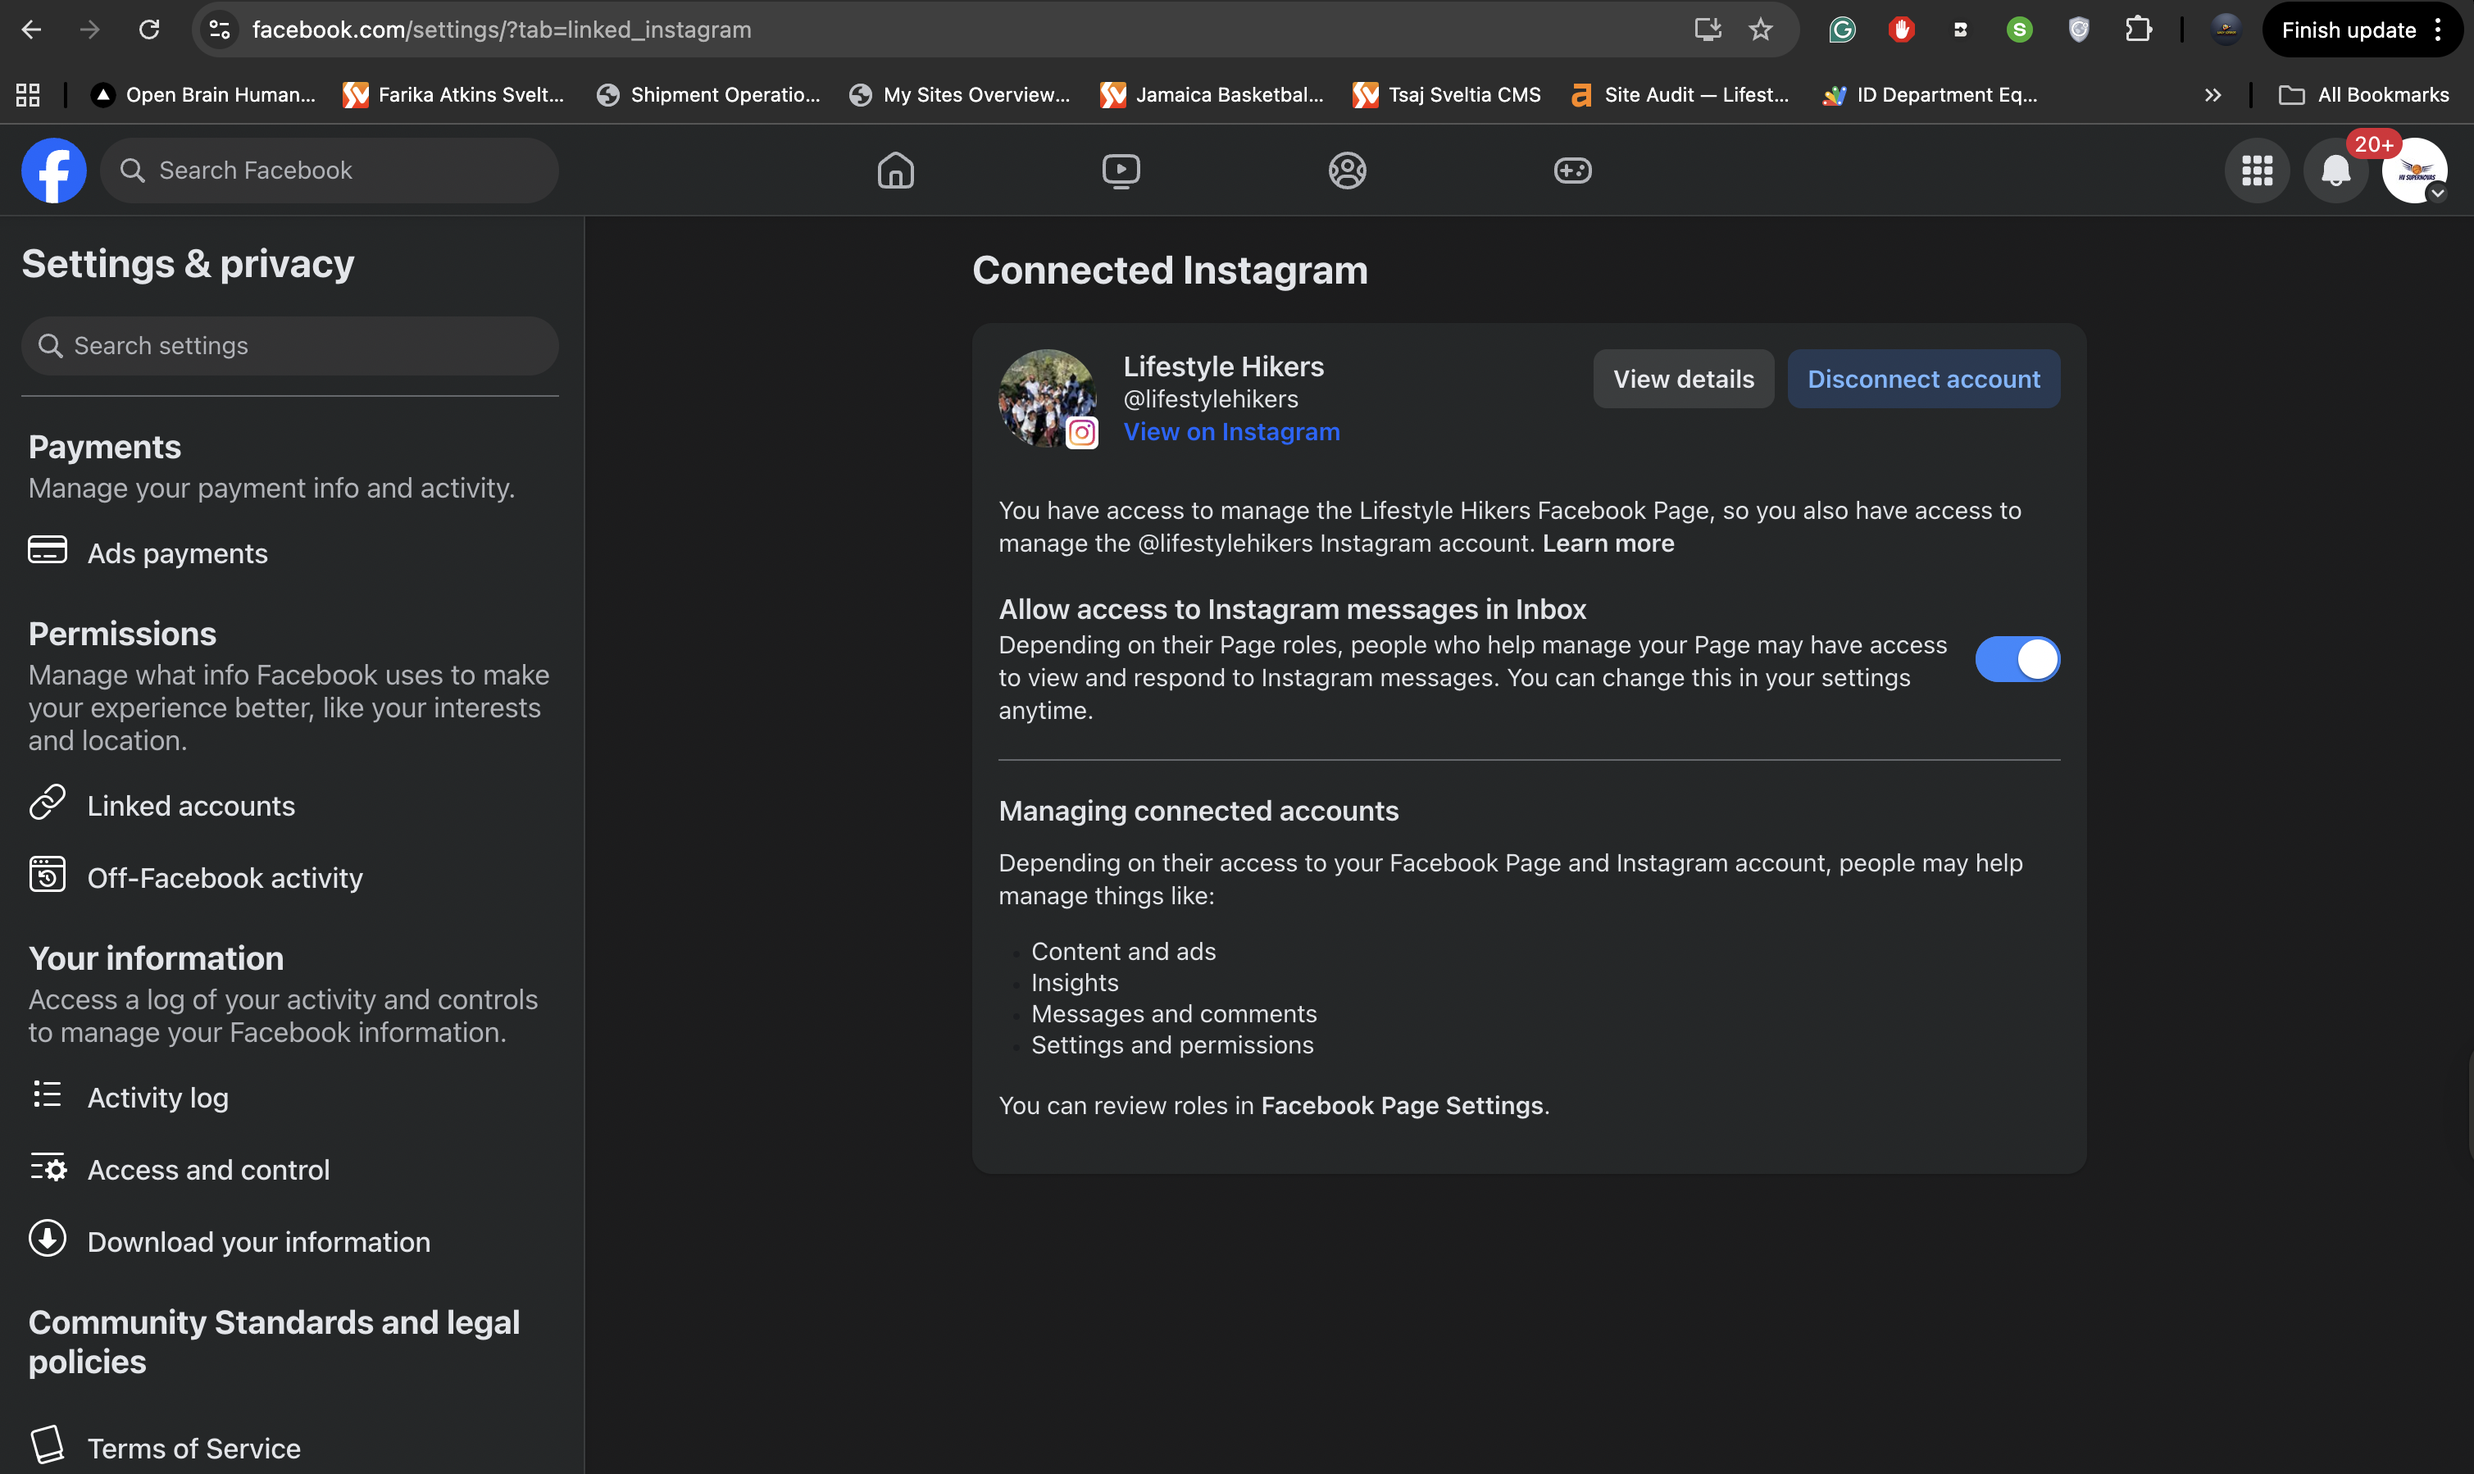
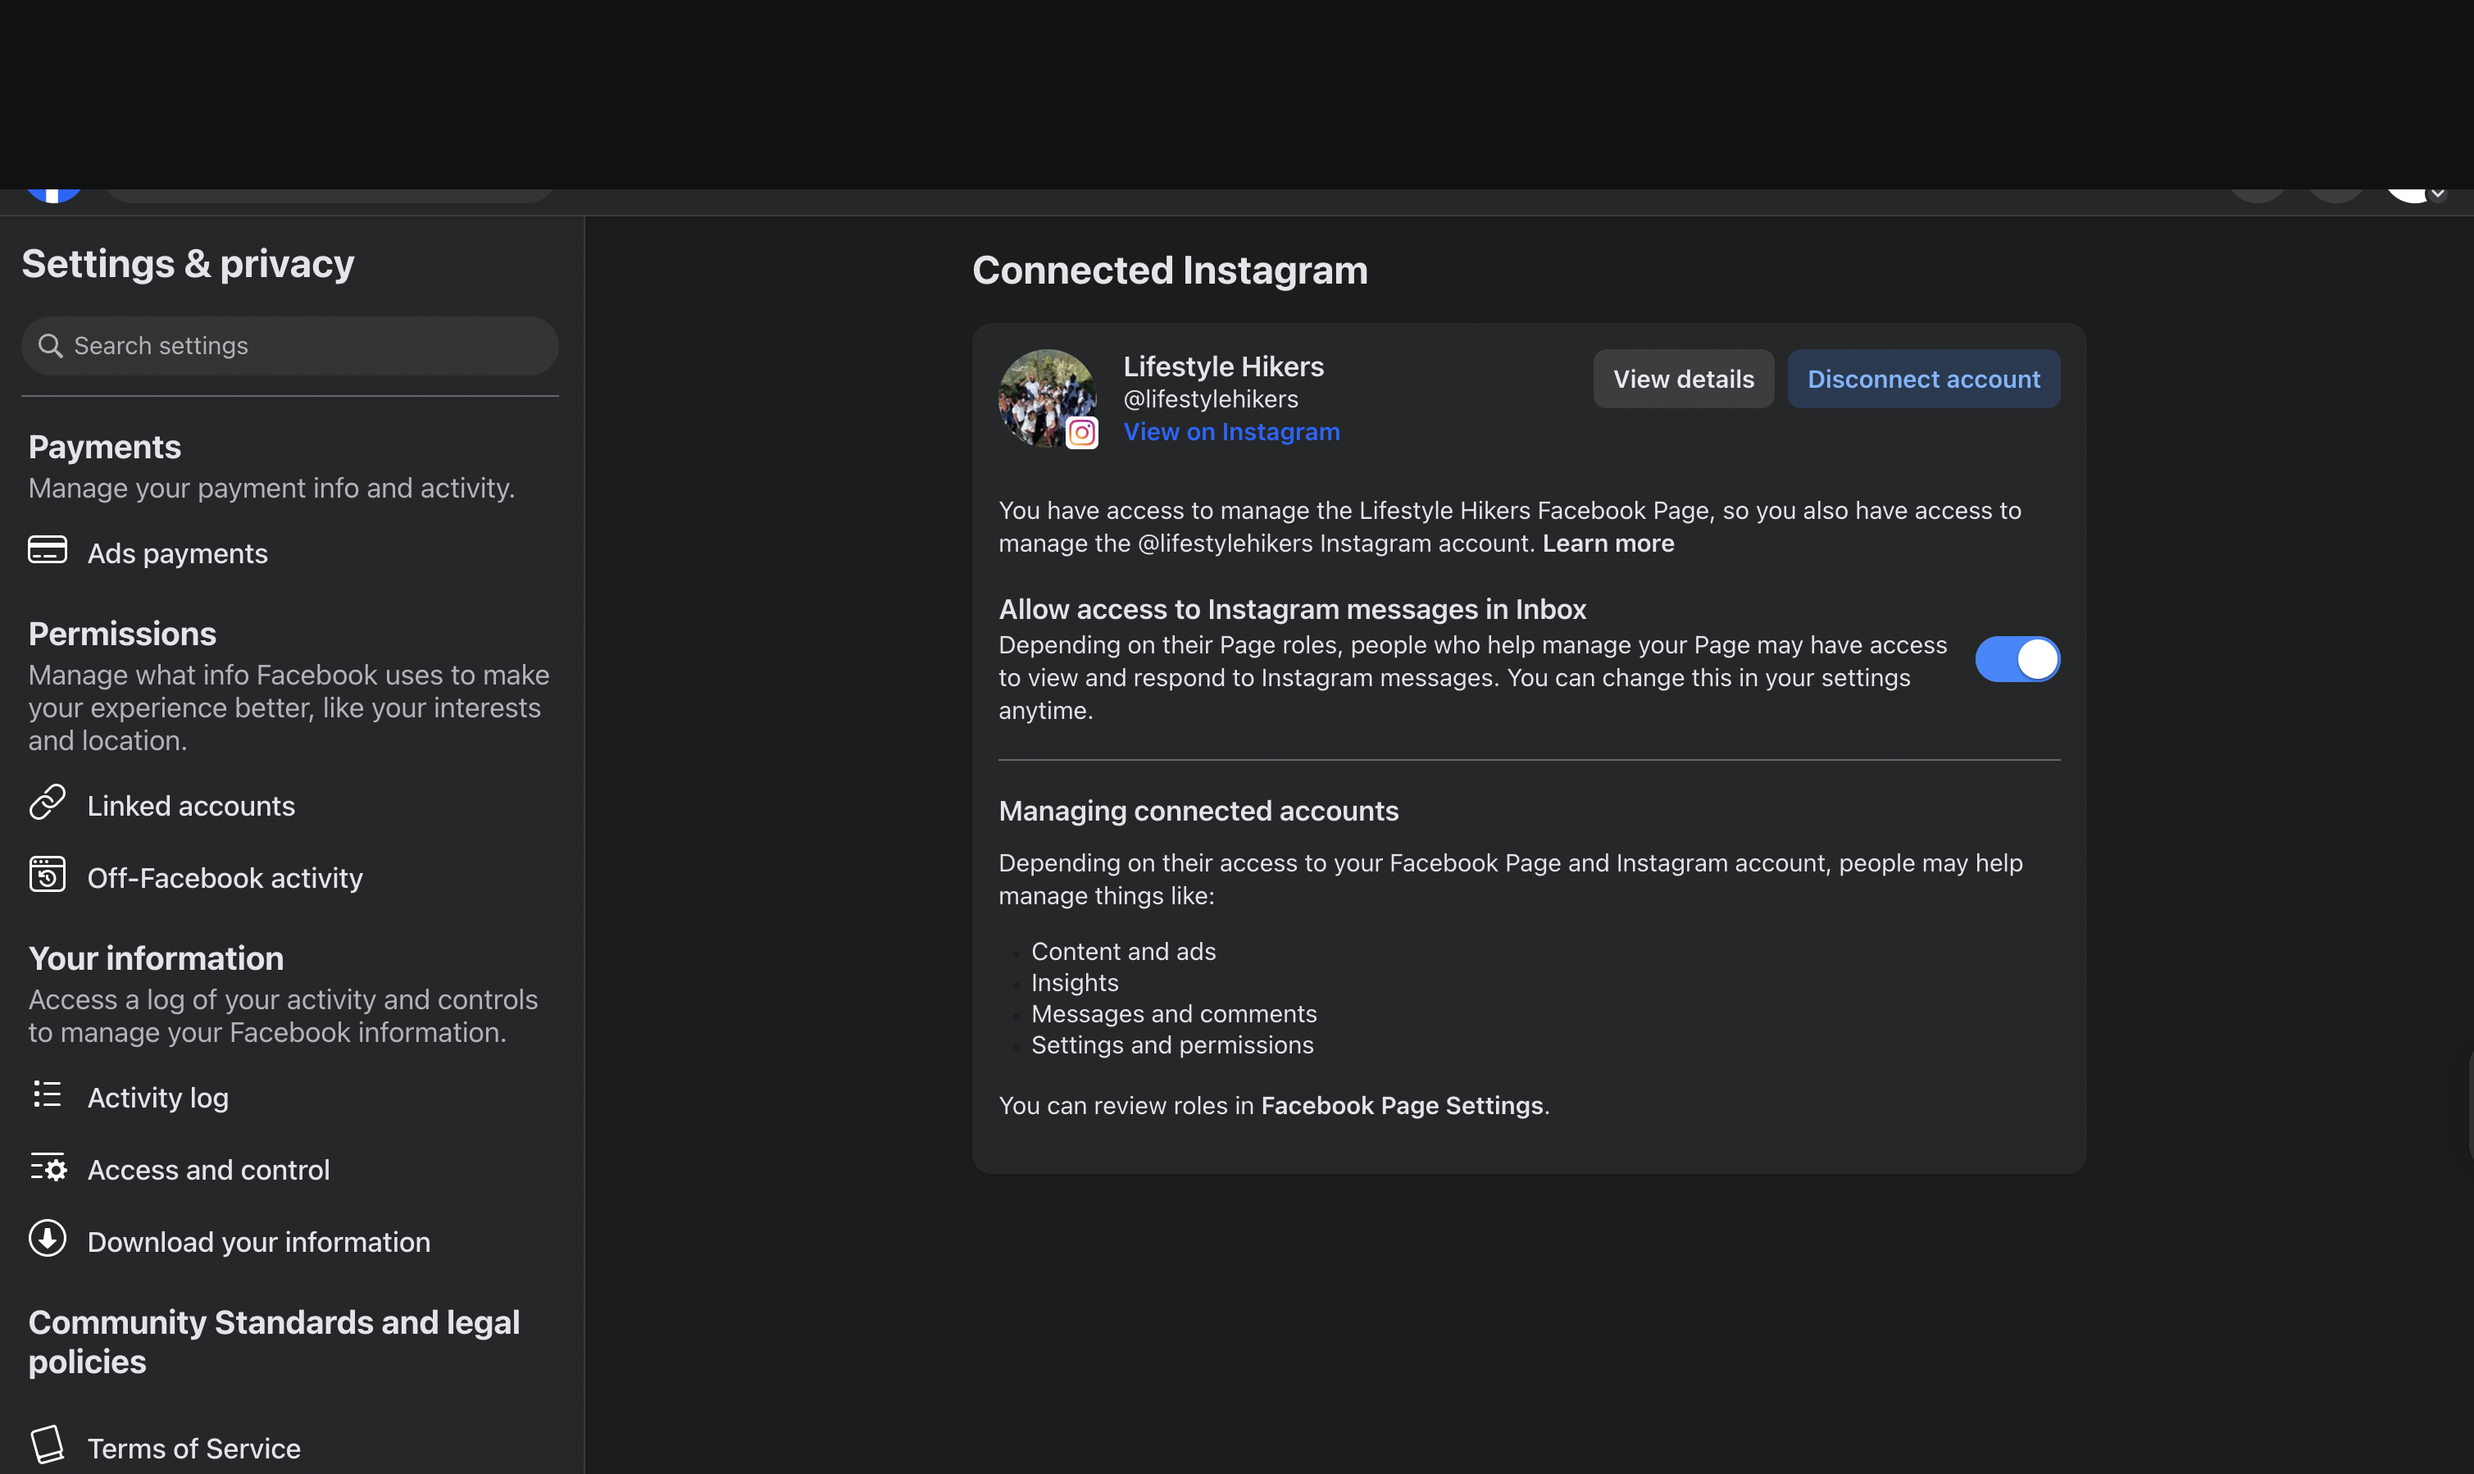
Redact sensitive details in DM autoresponder post

Changed region(s): [[0.0, 0.0, 1.0, 0.1557]]

diff --git a/_posts/2026-03-26-how-i-built-an-instagram-dm-autoresponder-with-n8n-and-meta.md b/_posts/2026-03-26-how-i-built-an-instagram-dm-autoresponder-with-n8n-and-meta.md
@@ -61,11 +61,13 @@ This build used:
 - **n8n** running on a **DigitalOcean droplet**
 - **Meta Graph API** endpoint: `https://graph.facebook.com/v21.0/me/messages`
 
-The production webhook ended up living here:
+The production webhook ended up looking like this:
 
 ```txt
-https://n8n.n8nwillylondon.work/webhook/instagram-dm-autoresponder
+https://your-n8n-domain.com/webhook/instagram-dm-autoresponder
 ```
+
+I am using a placeholder there on purpose. Publish the workflow pattern, not your live production callback URL.
 
 ## Step 1: Make Sure Instagram and Facebook Are Actually Connected
 
@@ -78,7 +80,8 @@ You need:
 - your Facebook user with full control of the Page
 - the app and the Page living in the same Meta business setup
 
-Here is what the Instagram/Page connection looked like on my end:
+Here is what the Instagram/Page connection looked like on my end.
+I redacted the personal and business-specific bits, because a tutorial should teach the setup without turning into a data leak:
 
 ![Connected Instagram account inside Meta settings](/assets/images/instagram-dm-autoresponder-connected-instagram.png){: width="3018" height="1798" loading="lazy" decoding="async" }
 
@@ -116,16 +119,17 @@ The fix was not "generate another random token and pray." The fix was using the 
    - `pages_manage_metadata`
 3. Use that user token to fetch the **Page access token**
 
-The Graph API Explorer setup looked like this:
+The Graph API Explorer setup looked like this.
+Again, I redacted the actual token and account-specific details:
 
 ![Meta Graph API Explorer permissions for Instagram messaging](/assets/images/instagram-dm-autoresponder-graph-api-explorer.png){: width="2984" height="1628" loading="lazy" decoding="async" }
 
-Then I ran:
+Then I queried the accounts endpoint for the Page token:
 
-```bash
-curl -G 'https://graph.facebook.com/v25.0/me/accounts' \
-  --data-urlencode 'fields=id,name,access_token,instagram_business_account' \
-  --data-urlencode 'access_token=USER_TOKEN'
+```txt
+GET https://graph.facebook.com/v25.0/me/accounts
+fields: id, name, access_token, instagram_business_account
+access_token: USER_TOKEN
 ```
 
 That response finally gave me the **Page access token** I actually needed for sending messages.
@@ -280,19 +284,22 @@ That is a much better problem than "your token is nonsense."
 
 I set the bot to answer with this message when someone asks to join:
 
-```txt
-Welcome to the Fam! 👋 We are happy to have you join us. No big requirements here, just bring good energy and the ability to manage the hike and you are good to go!
-How to stay in the loop:
-📸 Follow us on IG: @lifestylehikers
-🌐 Check the website: lifestylehikers.com
-How it works:
-When the next hike drops, you will see the date and meeting spot posted on our socials and the website. Just show up and you are in! It is as simple as that.
-Important:
-Please head over to the website and fill out the Join the Community form. This is the best way to stay updated and officially get plugged into the group.
-About the WhatsApp group:
-Our WhatsApp group is for active members only. You will get your invite after completing 3 hikes with us - that is how we keep the energy right and the group tight. Show up, hike, and your spot is waiting! 🏔🌿
-See you on the trail! 🇯🇲
-```
+> Welcome to the Fam! 👋 We are happy to have you join us. No big requirements here, just bring good energy and the ability to manage the hike and you are good to go!
+>
+> **How to stay in the loop**
+> 📸 Follow us on IG: `@lifestylehikers`
+> 🌐 Check the website: `lifestylehikers.com`
+>
+> **How it works**
+> When the next hike drops, you will see the date and meeting spot posted on our socials and the website. Just show up and you are in. It is as simple as that.
+>
+> **Important**
+> Please head over to the website and fill out the Join the Community form. This is the best way to stay updated and officially get plugged into the group.
+>
+> **About the WhatsApp group**
+> Our WhatsApp group is for active members only. You will get your invite after completing 3 hikes with us. That is how we keep the energy right and the group tight. Show up, hike, and your spot is waiting! 🏔🌿
+>
+> See you on the trail! 🇯🇲
 
 That way the bot is useful, on-brand, and not pretending to be a full customer support department.
 
